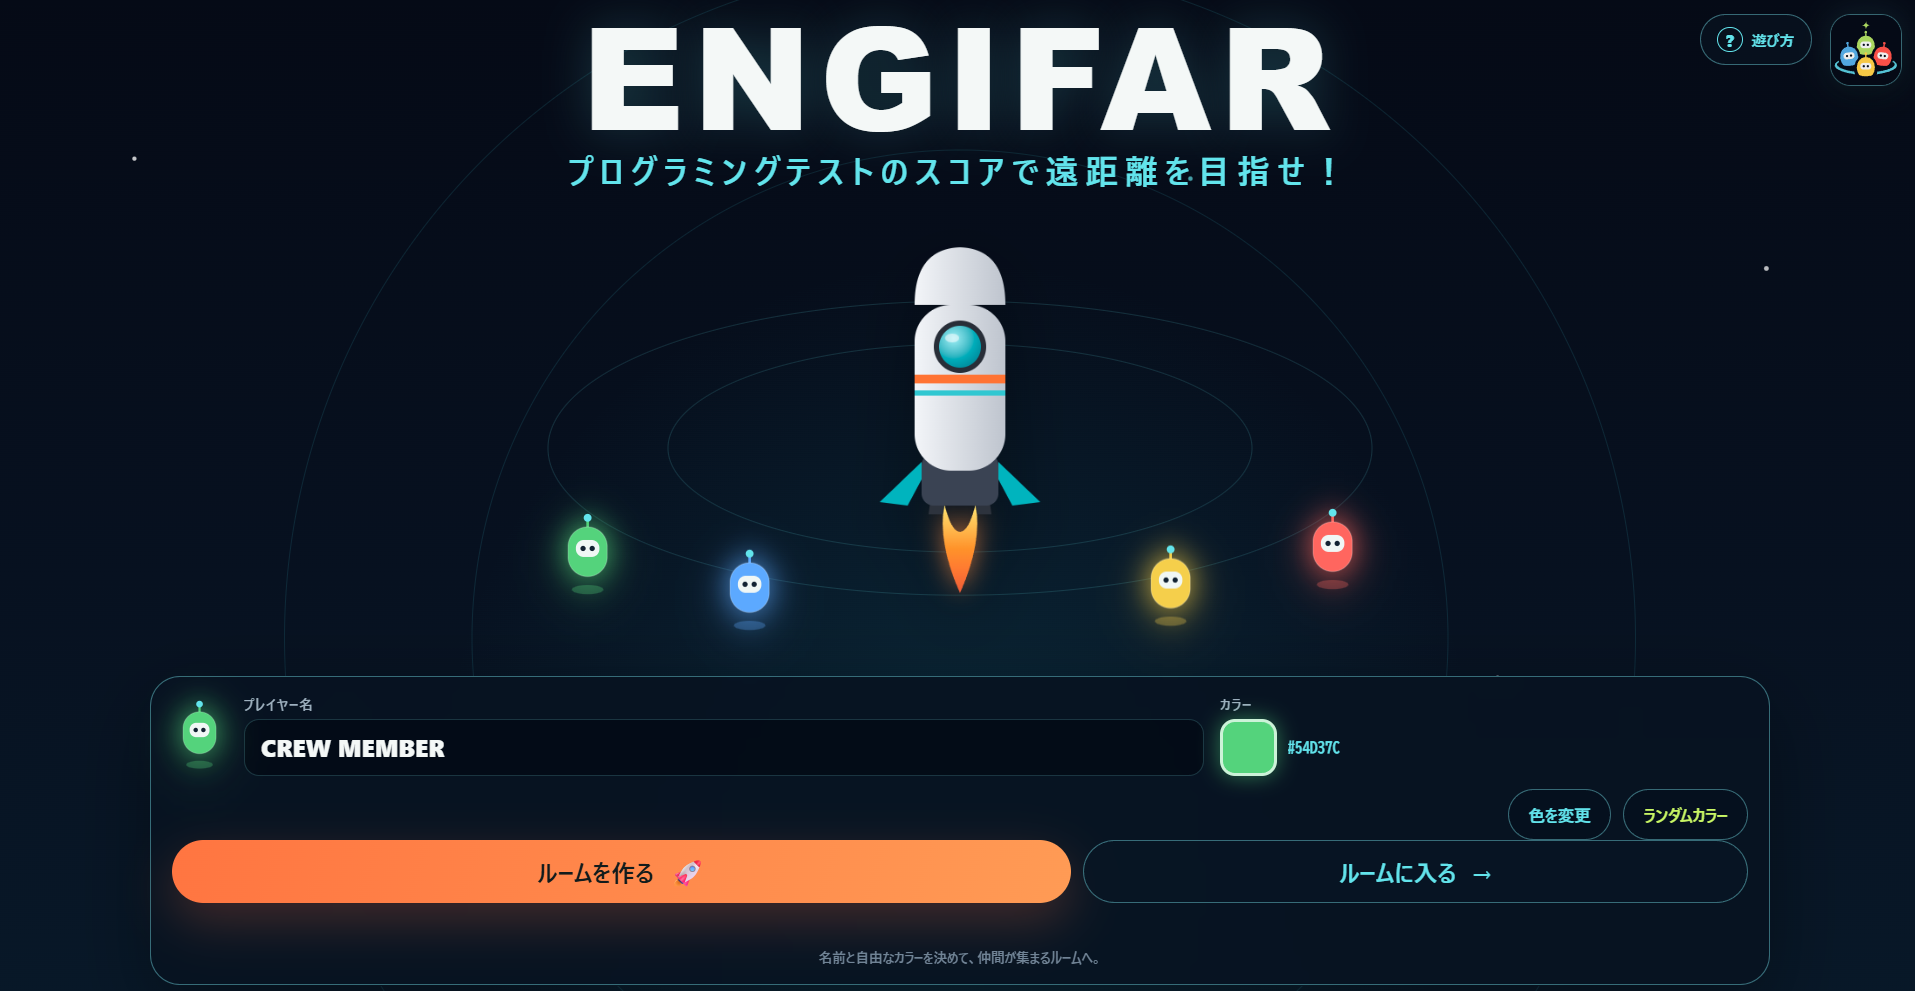
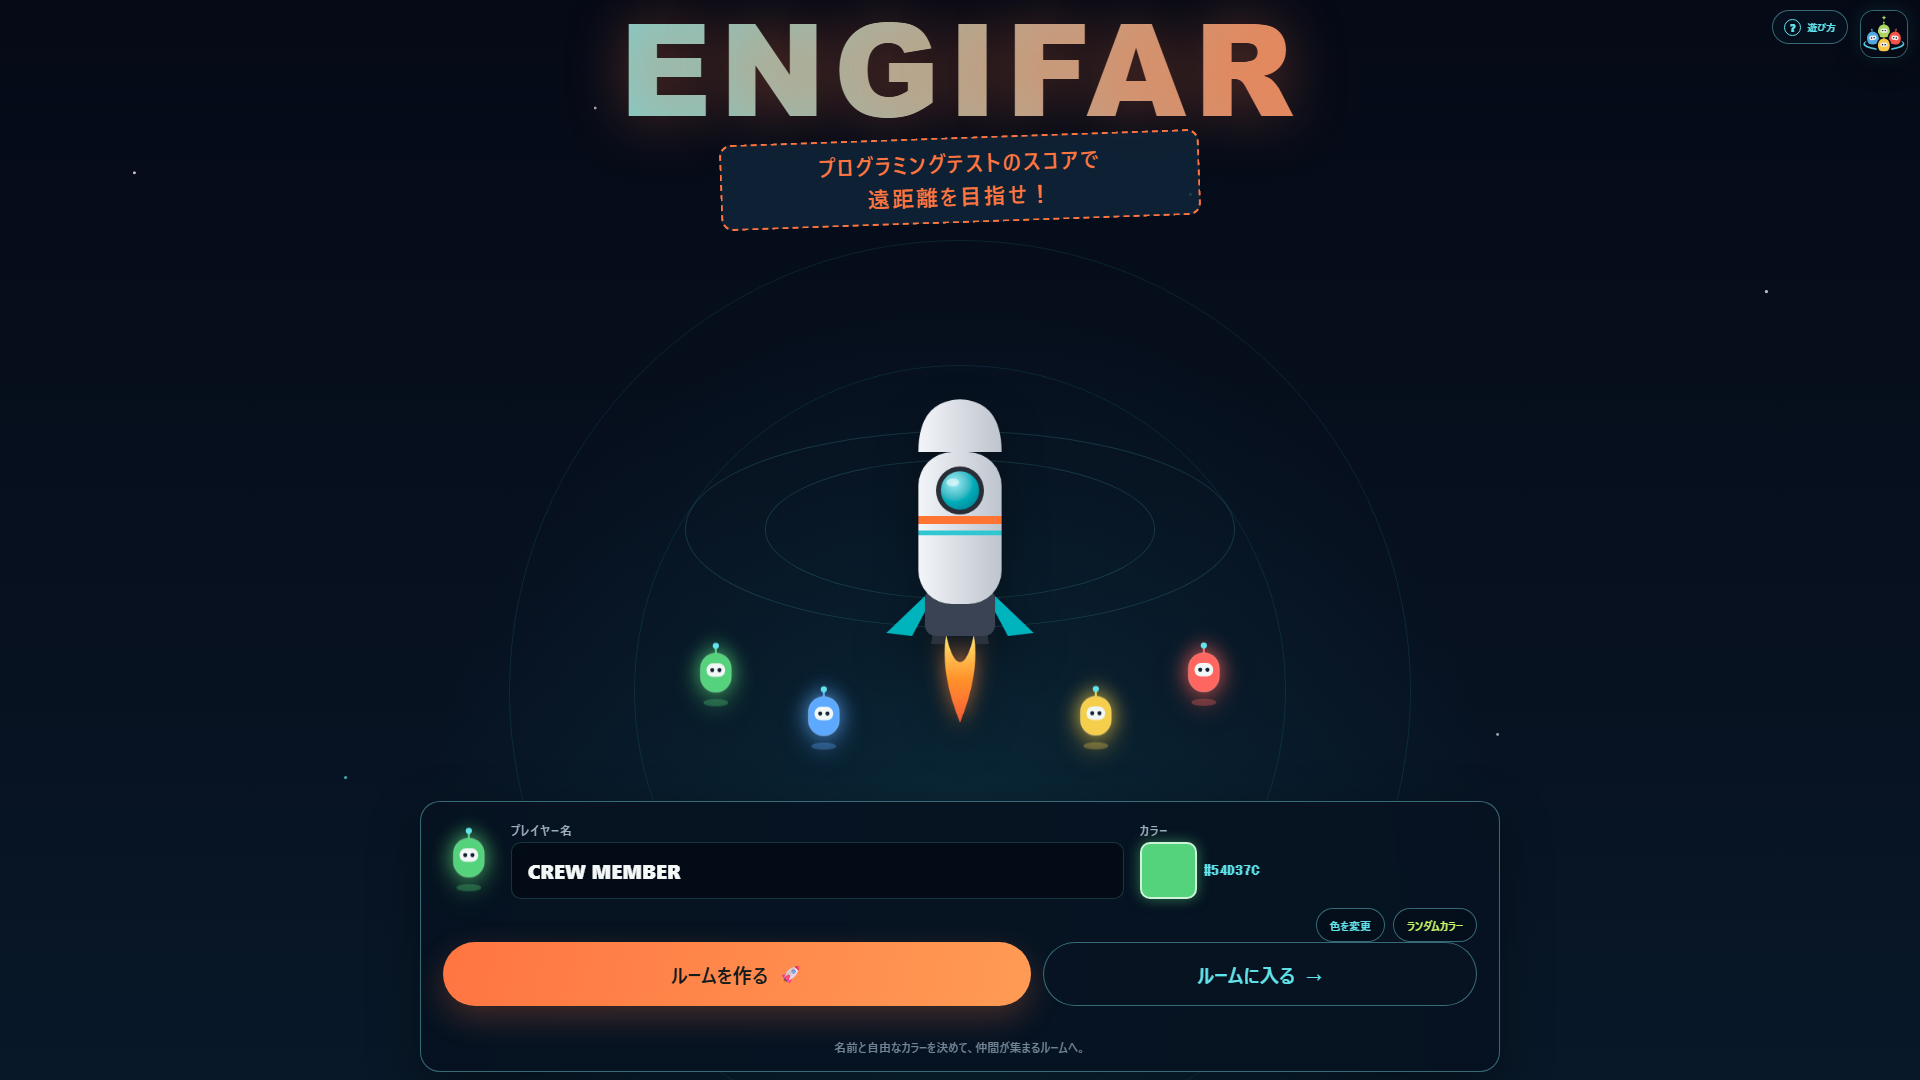
ホーム画面の文字変更と遊び方の反映

diff --git a/public/style.css b/public/style.css
@@ -3141,18 +3141,30 @@ a {
 .reference-hero { text-align: center; }
 .reference-logo {
   margin: 0;
-  color: var(--text);
   font: 900 clamp(42px, 7.4vw, 128px)/.9 "Arial Black", "Segoe UI", sans-serif;
   letter-spacing: .06em;
-  text-shadow: 0 0 32px rgba(98,228,236,.2);
+  background: linear-gradient(90deg, var(--cyan), var(--orange));
+  -webkit-background-clip: text;
+  background-clip: text;
+  color: transparent;
+  text-shadow: 0 0 60px rgba(255, 117, 65, .35);
 }
 .reference-hero h1 {
-  margin: 7px 0 0;
-  color: var(--cyan);
-  font-size: clamp(12px, 1.7vw, 28px);
-  letter-spacing: .22em;
+  display: inline-block;
+  max-width: min(94vw, 480px);
+  margin: 14px 0 0;
+  padding: 8px 20px;
+  border: 2px dashed var(--orange);
+  border-radius: 12px;
+  background: var(--panel-soft);
+  transform: rotate(-2deg);
+  color: var(--orange);
+  font-size: clamp(12px, 1.7vw, 22px);
+  font-weight: 800;
+  letter-spacing: .1em;
+  line-height: 1.5;
   word-break: keep-all;
-  overflow-wrap: normal;
+  overflow-wrap: break-word;
 }
 
 .reference-scene { position: relative; min-height: 0; }
@@ -3352,7 +3364,7 @@ a {
 @media (max-width:760px) {
   .reference-home-main { grid-template-rows:auto minmax(115px,1fr) auto; }
   .reference-logo { font-size:clamp(34px,12vw,54px); }
-  .reference-hero h1 { margin-top:3px; font-size:10px; }
+  .reference-hero h1 { margin-top:6px; padding:5px 12px; border-width:1.5px; font-size:10px; }
   .scene-bot{--crew-size:34px}.scene-bot--one{left:10%}.scene-bot--two{left:25%}.scene-bot--three{right:25%}.scene-bot--four{right:10%}
   .home-rocket { width:62px; height:132px; }
   .home-control { padding:9px 10px; border-radius:15px; }
@@ -3368,6 +3380,13 @@ a {
   .result-rank-row{padding:6px 8px}.result-data-grid{grid-template-columns:minmax(150px,1.08fr) minmax(116px,.72fr);gap:5px;margin:6px 0}.radar-chart{max-height:174px}.radar-label{font-size:8px}.result-data-grid .result-metrics{gap:4px}.result-data-grid .result-metrics>div{padding:6px 8px;border-radius:10px}.result-data-grid .result-metrics dt{font-size:8px}.result-data-grid .result-metrics dt small{display:none}.result-data-grid .result-metrics dd{margin-top:2px}.result-data-grid .result-metrics dd b{font-size:20px}.result-data-grid .metric-altitude dd b{font-size:15px}.result-data-grid .result-metrics dd span{font-size:8px}.radar-card figcaption{display:none}
   .result-view-tabs{margin-bottom:7px;padding:3px}.result-view-tab{min-height:32px;padding:5px 7px;font-size:9px}
   .crew-results{margin-bottom:6px;padding:6px 7px}.crew-results.result-view-pane{padding:8px}.crew-results ol{max-height:92px}.crew-results li{grid-template-columns:18px minmax(0,1fr) auto;padding:4px 5px}.crew-results-detail{display:none}
+}
+
+/* Below 620px the help button (.guide-open-button--home) drops to top:62px, which is tall
+   enough to reach into the hero header — keep the tagline badge narrow enough here that it
+   never reaches the button, on either axis. */
+@media (max-width:430px) {
+  .reference-hero h1 { max-width:140px; margin-top:8px; padding:4px 6px; font-size:8.5px; }
 }
 
 @media (max-height:620px) and (min-width:700px) {
@@ -3402,7 +3421,7 @@ a {
   }
   .reference-hero { grid-column:1; grid-row:1; align-self:end; }
   .reference-logo { font-size:clamp(36px,6.5vw,54px); }
-  .reference-hero h1 { margin-top:3px; font-size:9px; letter-spacing:.08em; line-height:1.45; }
+  .reference-hero h1 { margin-top:6px; padding:4px 10px; border-width:1.5px; font-size:9px; letter-spacing:.08em; line-height:1.45; }
   .reference-scene { grid-column:1; grid-row:2; }
   .home-rocket { width:58px; height:124px; }
   .scene-bot { --crew-size:30px; }
